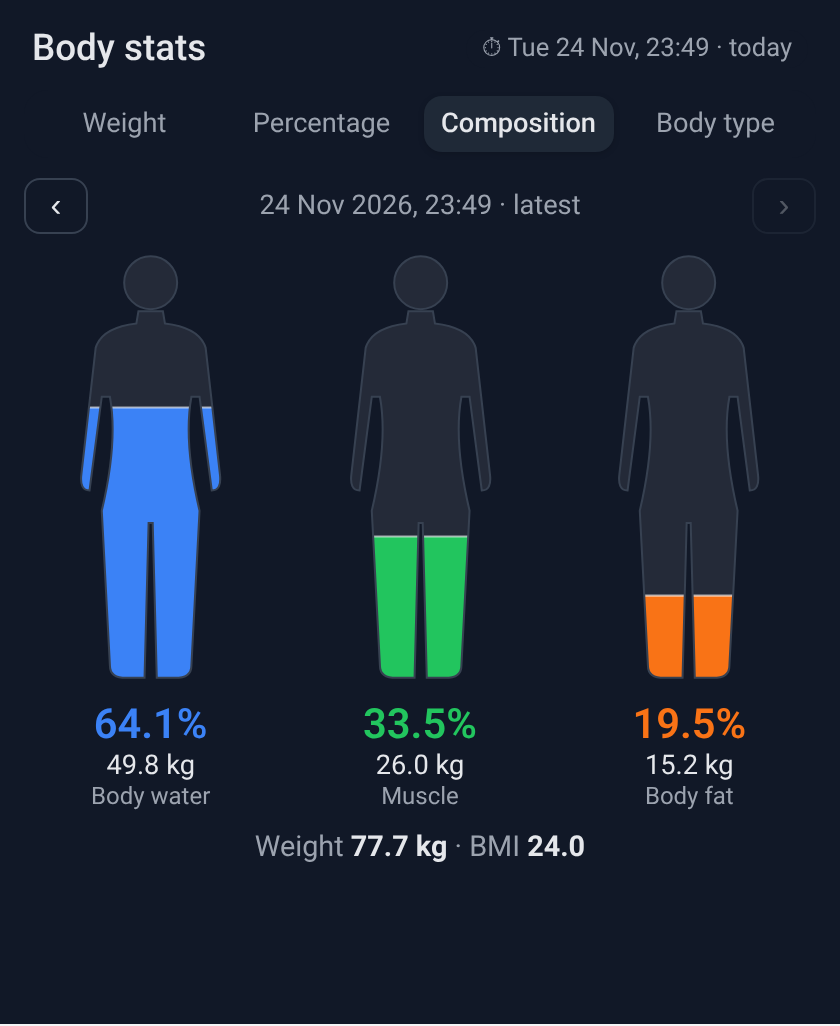
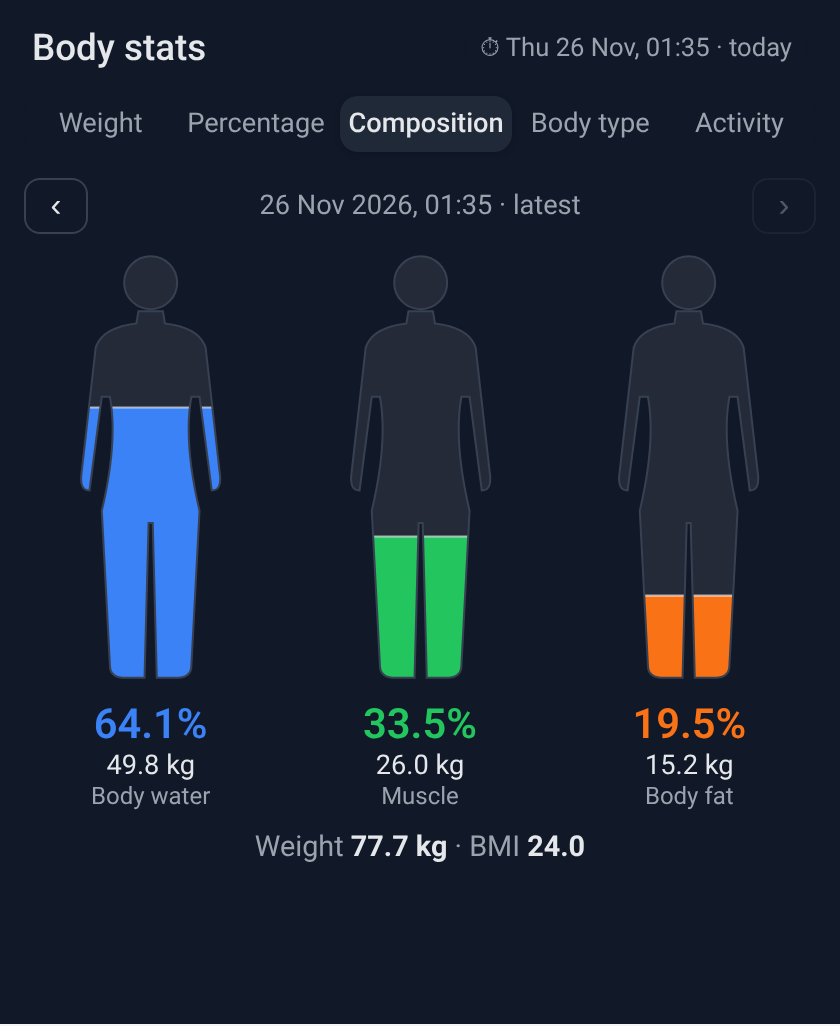
Add Activity tab: steps, heart rate, calories and sleep (v1.1.0)
- Steps ring against a daily goal with a 7-day average
- Tiles and charts for heart rate (last 24 h), calories per day and sleep per night
- weight_entity is now optional: an activity-only card shows just the Activity tab
- Visual editor gains an Activity section

Claude-Session: https://claude.ai/code/session_01T7fKisAy72Jenz3J4QdSDR

diff --git a/README.md b/README.md
@@ -1,10 +1,14 @@
 # Body Stats Card
 
-An InBody-style body composition card for Home Assistant. It works with any smart scale that exposes weight plus body fat, muscle and/or body water sensors. It was built for a Salter MiBody scale read by [esphome-salter-mibody](https://github.com/johnradford49/esphome-salter-mibody).
+An InBody-style body composition and activity card for Home Assistant. It works with any smart scale that exposes weight plus body fat, muscle and/or body water sensors, and with step, heart-rate, calorie and sleep sensors such as those from the Home Assistant Companion app's Health Connect sensors. It was built for a Salter MiBody scale read by [esphome-salter-mibody](https://github.com/johnradford49/esphome-salter-mibody).
 
 | Weight | Percentage | Composition | Body type |
 |---|---|---|---|
 | ![Weight tab](images/weight.png) | ![Percentage tab](images/percentage.png) | ![Composition tab](images/composition.png) | ![Body type tab](images/body-type.png) |
+
+| Activity: steps | Activity: heart rate | Activity: sleep (dark) |
+|---|---|---|
+| ![Activity tab, steps](images/activity-steps.png) | ![Activity tab, heart rate](images/activity-heart.png) | ![Activity tab, sleep, dark](images/activity-sleep-dark.png) |
 
 | Dark theme | |
 |---|---|
@@ -18,6 +22,7 @@ _Screenshots use sample data._
 - **Percentage tab:** the same components as a percentage of body weight, with a trend graph.
 - **Composition tab:** male or female figures filled to each component's percentage, with arrows to step through past weigh-ins.
 - **Body type tab:** BMI plotted against body fat on a 3 × 3 grid (Thin, Slim, Skinny fat, Athletic, Healthy, Hidden obesity, Muscular, Overweight, Obesity), with a trail of recent weigh-ins.
+- **Activity tab:** a ring showing today's steps against your goal, tiles for heart rate (latest reading and today's range), calories (total and active) and last night's sleep. Tap a tile to chart it: daily steps with a goal line, heart rate over the last 24 hours, calories per day, or sleep per night against an 8-hour goal.
 - **Last weigh-in badge** that turns orange after 7 days and red after 30.
 - Works with sensors in either `%` or `kg`. The card converts between them using the weight.
 - Uses recorder history for individual weigh-ins and falls back to long-term statistics (daily means) for older data.
@@ -35,7 +40,7 @@ _Screenshots use sample data._
 ### Manual
 
 1. Copy `body-stats-card.js` to `/config/www/body-stats-card.js`.
-2. Go to **Settings → Dashboards → ⋮ → Resources → Add resource**. Enter URL `/local/body-stats-card.js?v=1.0.0` with type **JavaScript module**.
+2. Go to **Settings → Dashboards → ⋮ → Resources → Add resource**. Enter URL `/local/body-stats-card.js?v=1.1.0` with type **JavaScript module**.
 3. Hard-refresh your browser. When you update the file, bump the `?v=` number so browsers fetch the new copy.
 
 ## Configuration
@@ -52,11 +57,20 @@ water_entity: sensor.salter_body_water
 height_cm: 180
 body_type: male
 days_to_show: 90
+# activity (optional)
+steps_entity: sensor.phone_daily_steps
+steps_goal: 10000
+heart_rate_entity: sensor.phone_heart_rate
+calories_entity: sensor.phone_total_calories_burned
+active_calories_entity: sensor.phone_active_calories_burned
+sleep_entity: sensor.phone_sleep_duration
 ```
+
+The Activity tab appears when at least one activity sensor is set. If you leave out `weight_entity`, the card shows only the Activity tab.
 
 | Option | Default | Description |
 |---|---|---|
-| `weight_entity` | **required** | Weight sensor in kg |
+| `weight_entity` | – | Weight sensor in kg. Needed for the body tabs. Set this or at least one activity sensor |
 | `fat_entity` | – | Body fat sensor (`%` or `kg`) |
 | `muscle_entity` | – | Muscle sensor (`%` or `kg`) |
 | `water_entity` | – | Body water sensor (`%` or `kg`) |
@@ -64,9 +78,17 @@ days_to_show: 90
 | `body_type` | `male` | `male` or `female`. Sets the figure and the body-fat ranges on the Body type grid |
 | `title` | – | Card title |
 | `days_to_show` | `90` | How far back to load weigh-ins |
-| `tabs` | all | Any of `weight`, `percentage`, `composition`, `quadrant` |
+| `tabs` | all available | Any of `weight`, `percentage`, `composition`, `quadrant`, `activity` |
 | `default_tab` | first tab | Tab shown when the card loads |
-| `show_graph` | `true` | Show the trend graph on the Weight and Percentage tabs |
+| `show_graph` | `true` | Show the graph on the Weight, Percentage and Activity tabs |
+| `steps_entity` | – | Daily steps sensor (resets each day) |
+| `steps_goal` | `10000` | Daily step goal for the ring and the goal line |
+| `heart_rate_entity` | – | Heart rate sensor in bpm |
+| `calories_entity` | – | Total calories burned today |
+| `active_calories_entity` | – | Active calories burned today |
+| `sleep_entity` | – | Sleep duration sensor (`min`, `h` or `s`) |
+| `sleep_goal_hours` | `8` | Goal line on the sleep chart |
+| `activity_days` | `7` | Days shown in the steps, calories and sleep charts (3–31) |
 
 ### Keeping more than ~10 days of history
 
